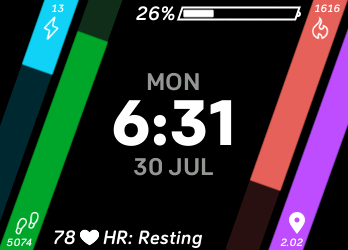
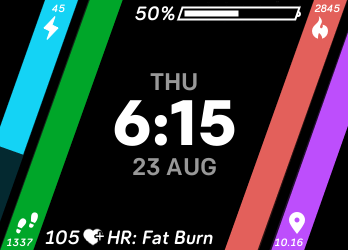
Version 2.0
- Rays slope reliably
- Heart rate icons updated to be reflective of current zone
- Minor tweaks to positioning

diff --git a/Rays-export/app/index.js b/Rays-export/app/index.js
@@ -16,6 +16,7 @@ const dateText = document.getElementById("dateText");
 const batteryPercentage = document.getElementById("batteryPercentage");
 const batteryLine = document.getElementById("batteryLine");
 const heartRate = document.getElementById("heartRate");
+const heartIcon = document.getElementById("heartIcon");
 const heartZone = document.getElementById("heartZone");
 
 const activityBar = document.getElementById("activityBar");
@@ -25,7 +26,7 @@ const activityIcon = document.getElementById("activityIcon");
 const stepsBar = document.getElementById("stepsBar");
 const stepsText = document.getElementById("stepsText");
 const stepsIcon = document.getElementById("stepsIcon");
-const stepsCap = document.getElementById("stepsCap");
+//const stepsCap = document.getElementById("stepsCap");
 
 const calBar = document.getElementById("calBar");
 const calText = document.getElementById("calText");
@@ -36,6 +37,10 @@ const distBar = document.getElementById("distBar");
 const distText = document.getElementById("distText");
 const distIcon = document.getElementById("distIcon");
 
+const barSlope = -2.78;
+const longBarWidth = 94;
+const shortBarWidth = 80;
+
 // Update the clock every minute
 clock.granularity = "minutes";
 
@@ -43,7 +48,7 @@ clock.ontick = (evt) =>
 { 
   const todayDate = evt.date;
   dayText.text = util.seizeTheDay(todayDate);
-  dateText.text = (todayDate.getDate() + ' ' + util.seizeTheMonth(todayDate));
+  dateText.text = todayDate.getDate() + ' ' + util.seizeTheMonth(todayDate);
   
   const hours = todayDate.getHours();
   const mins = util.zeroPad(todayDate.getMinutes());
@@ -62,21 +67,18 @@ clock.ontick = (evt) =>
 // Set the final x/y for each goal bar based on goal progress.
 function updateGoalBars()
 {
-  activityBar.x2 = util.getGoalBar(-81, today.local.activeMinutes, goals.activeMinutes);
-  activityBar.y2 = util.getGoalBar(210, today.local.activeMinutes, goals.activeMinutes);
+  // I know magic numbers are bad BUT the 4's and 6's are just offsets for the y-intercept on each of the rays. Sorry :-)
+  activityBar.x2 = -util.getGoalBar(activityBar.x1, shortBarWidth, today.local.activeMinutes, goals.activeMinutes);
+  activityBar.y2 = activityBar.x2 * barSlope - 4;
   
-  stepsBar.x2 = util.getGoalBar(91, today.local.steps, goals.steps);
-  stepsBar.y2 = util.getGoalBar(-250, today.local.steps, goals.steps);
-  //stepsCap.x = util.getBarCap(-11, 80, today.local.steps, goals.steps);
-  //stepsCap.y = util.getBarCap(-2, -260, today.local.steps, goals.steps);
+  stepsBar.x2 = util.getGoalBar(stepsBar.x1, longBarWidth, today.local.steps, goals.steps);
+  stepsBar.y2 = stepsBar.x2 * barSlope + 6;
   
-  calBar.x2 = util.getGoalBar(-91, today.local.calories, goals.calories);
-  calBar.y2 = util.getGoalBar(250, today.local.calories, goals.calories);
-  //calCap.x = util.getBarCap(-22, -50, today.local.calories, goals.calories);
-  //calCap.y = util.getBarCap(0, 160, today.local.calories, goals.calories);
+  calBar.x2 = -util.getGoalBar(calBar.x1, longBarWidth, today.local.calories, goals.calories);
+  calBar.y2 = calBar.x2 * barSlope - 4;
   
-  distBar.x2 = util.getGoalBar(88, today.local.distance, goals.distance);
-  distBar.y2 = util.getGoalBar(-240, today.local.distance, goals.distance);
+  distBar.x2 = util.getGoalBar(distBar.x1, shortBarWidth, today.local.distance, goals.distance);
+  distBar.y2 = distBar.x2 * barSlope + 6;
 }
 
 // Update the stat numbers for each goal and "fill" the icon if the goal is met.
@@ -99,23 +101,23 @@ function updateGoalInfo()
     distIcon.href = "img_distanceFill.png";  
 }
 
-// Update battery line and color.
+// Update battery line length and percentage.
 function updateBattery()
 {
   batteryPercentage.text = (Math.floor(battery.chargeLevel) || "--") + "%";
-  // The battery line's left side starts at -50, so we have to adjust the endpoint of the line's right side by -50.
+  // The battery line stretches from the start point (184) and shrinks along a scale.
   batteryLine.x2 = 184 + ((battery.chargeLevel / 100) * 108);
 }
 
 function updateHeart()
 {
-  // Heart rate monitoring/animation functions.
   let hrm = new HeartRateSensor();
   hrm.start();
 
   hrm.onreading = function()
   {
     heartRate.text = hrm.heartRate || "--";
+    heartIcon.href = util.getHRIcon(user.heartRateZone(hrm.heartRate));
     heartZone.text = "HR: " + util.getHRZone(user.heartRateZone(hrm.heartRate));
   }
 }

diff --git a/Rays-export/common/utils.js b/Rays-export/common/utils.js
@@ -91,19 +91,24 @@ export function calculateDistance(distance, units)
 }
 
 // Return the x or y coordinate for the goal bar based on its final location ('scale')
-export function getGoalBar(scale, goalProgress, goalEnd)
+export function getGoalBar(startPoint, width, goalProgress, goalEnd)
 {
   if (goalProgress == undefined)
     return 0;
   else if (goalProgress >= goalEnd)
-    return scale;
+    return startPoint + width;
   else
-    return scale * (goalProgress/goalEnd);
+    return startPoint + ((goalProgress/goalEnd) * width);
 }
 
-export function getBarCap(start, end, goalProgress, goalEnd)
+export function getHRIcon(heartZone)
 {
-  return start + ((goalProgress/goalEnd) * end);
+  if (heartZone === "fat-burn")
+    return "img_hr_fatburn.png";
+  else if (heartZone === "cardio" || heartZone === "peak")
+    return "img_hr_peak.png";
+  else
+    return "img_hr_resting.png";
 }
 
 export function getHRZone(heartZone)

diff --git a/Rays-export/resources/styles.css b/Rays-export/resources/styles.css
@@ -70,18 +70,23 @@
   y: 248;
 }
 #stepsBar {
-  x1: -3;
-  y1: 16;
-  x2: 93;
+  x1: 0; /*was 2. y too*/
+  y1: 8;
+  x2: 90;
   y2: -254;
   fill: fb-green;
   stroke-width: 31;
-}/*
+}
+#distHold {
+  x: 284;
+  y: 248;
+}
+/*
 #stepsCap {
   x: -14;
-  y: -8;
-  height: 11;
-  width: 36;
+  y: -5;
+  height: 16;
+  width: 35;
 }*/
 #stepsIcon {
   x: 1;
@@ -140,8 +145,8 @@
   y: 248;
 }
 #distBar {
-  x1: -3;
-  y1: 16;
+  x1: 1;
+  y1: 8;
   x2: 88;
   y2: -240;
   fill: fb-purple;
@@ -183,7 +188,7 @@
 }
 
 #heartRate {
-  x: 78;
+  x: 82;
   y: 244;
   fill: white;
   font-size: 20;
@@ -191,8 +196,15 @@
   text-length: 4;
   text-anchor: end;
 }
+#heartIcon {
+  x: 82;
+  y: 226;
+  width: 22;
+  height: 22;
+  fill: white;
+}
 #heartZone {
-  x: 102;
+  x: 106;
   y: 244;
   fill: white;
   font-size: 20;

diff --git a/README.md b/README.md
@@ -16,8 +16,8 @@ Rays is a clock face for the Fitbit Ionic. I created it because I wanted to try 
 * None, I just started! But I plan to optimize the bar growth formula since it's a little messy and off-kilter right now.
 
 ### Screenshots
-##### Goals In Progress
+##### Example 1
 ![Keep it up!](https://github.com/ishfulthinking/fitbit-rays/blob/master/Rays-screenshots/Rays-screenshot1.png)  
 
-##### Goals Reached
+##### Example 2
 ![You did it!](https://github.com/ishfulthinking/fitbit-rays/blob/master/Rays-screenshots/Rays-screenshot2.png)  
